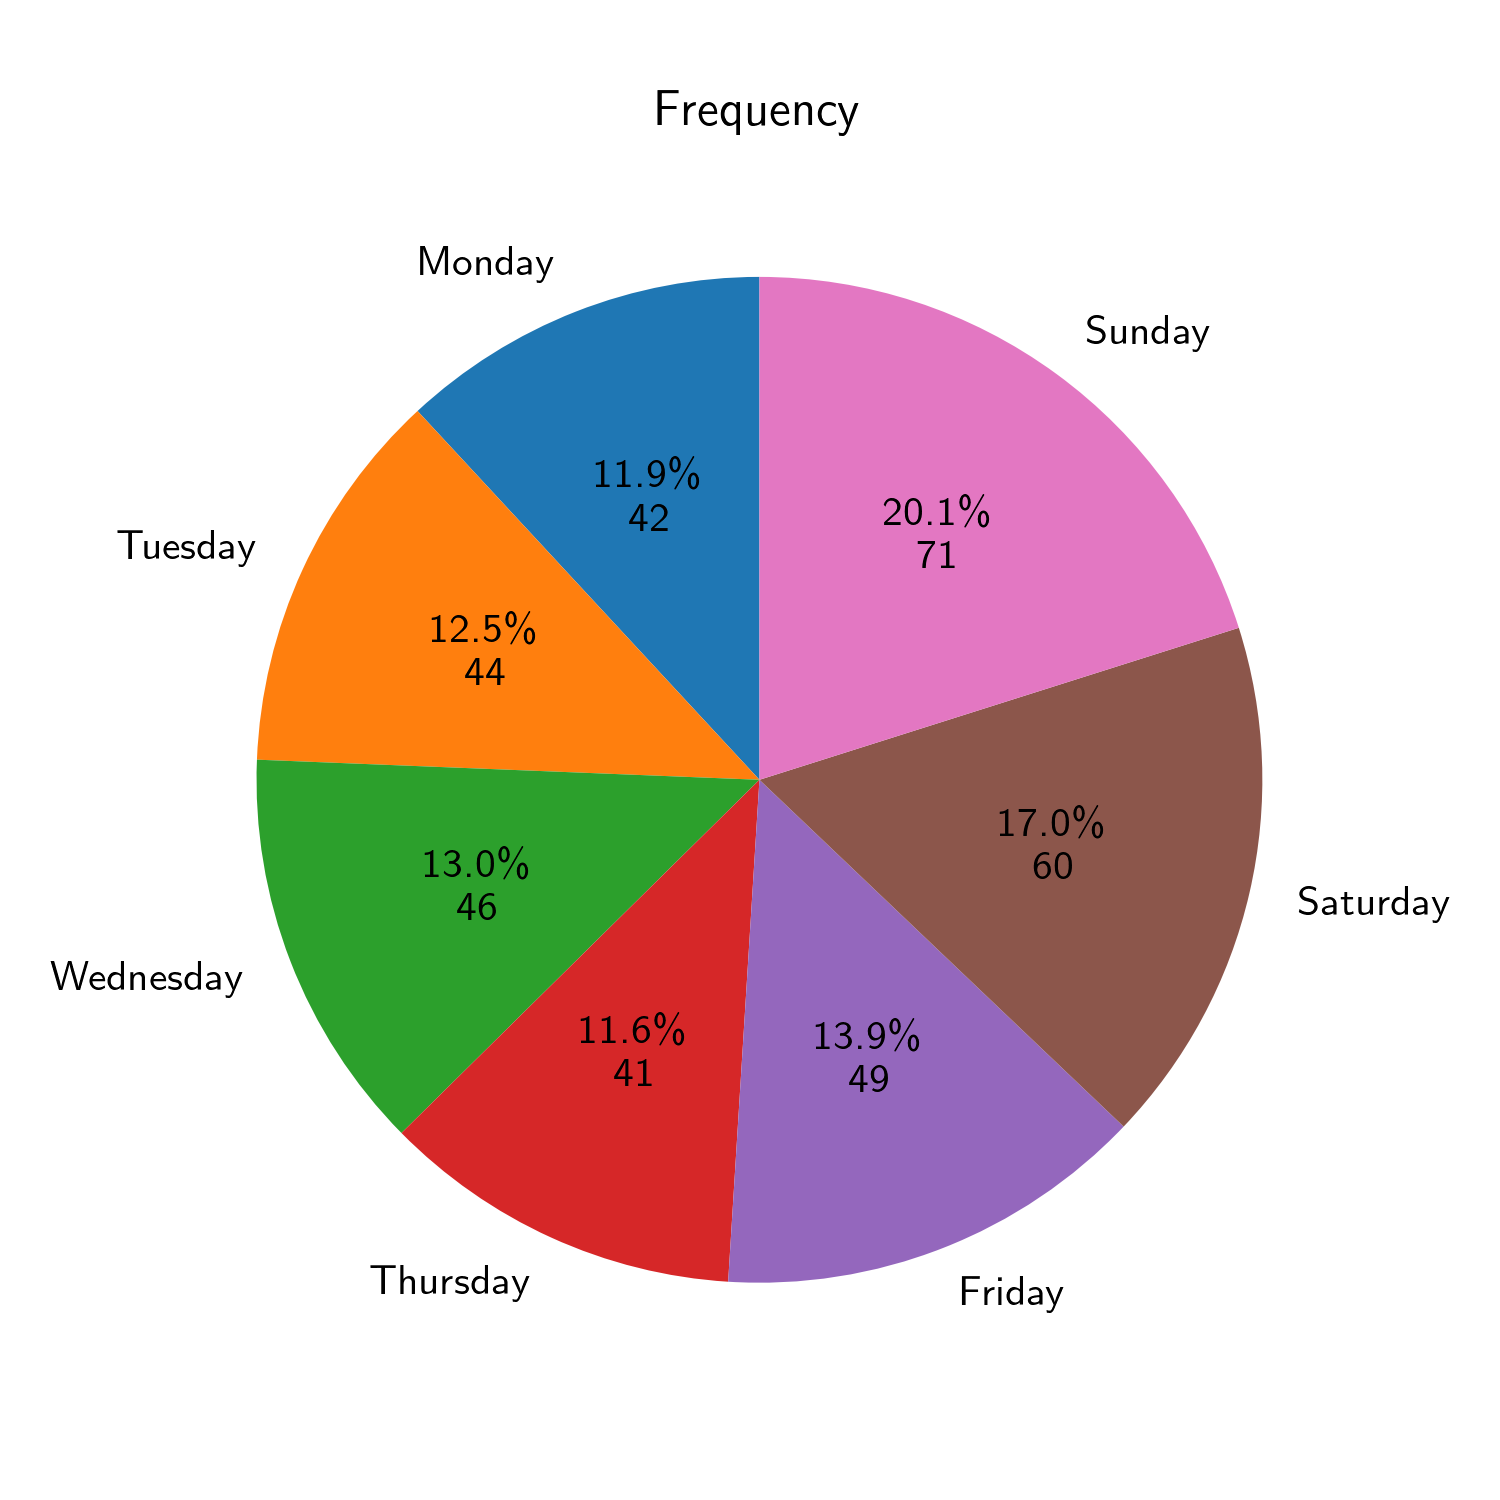
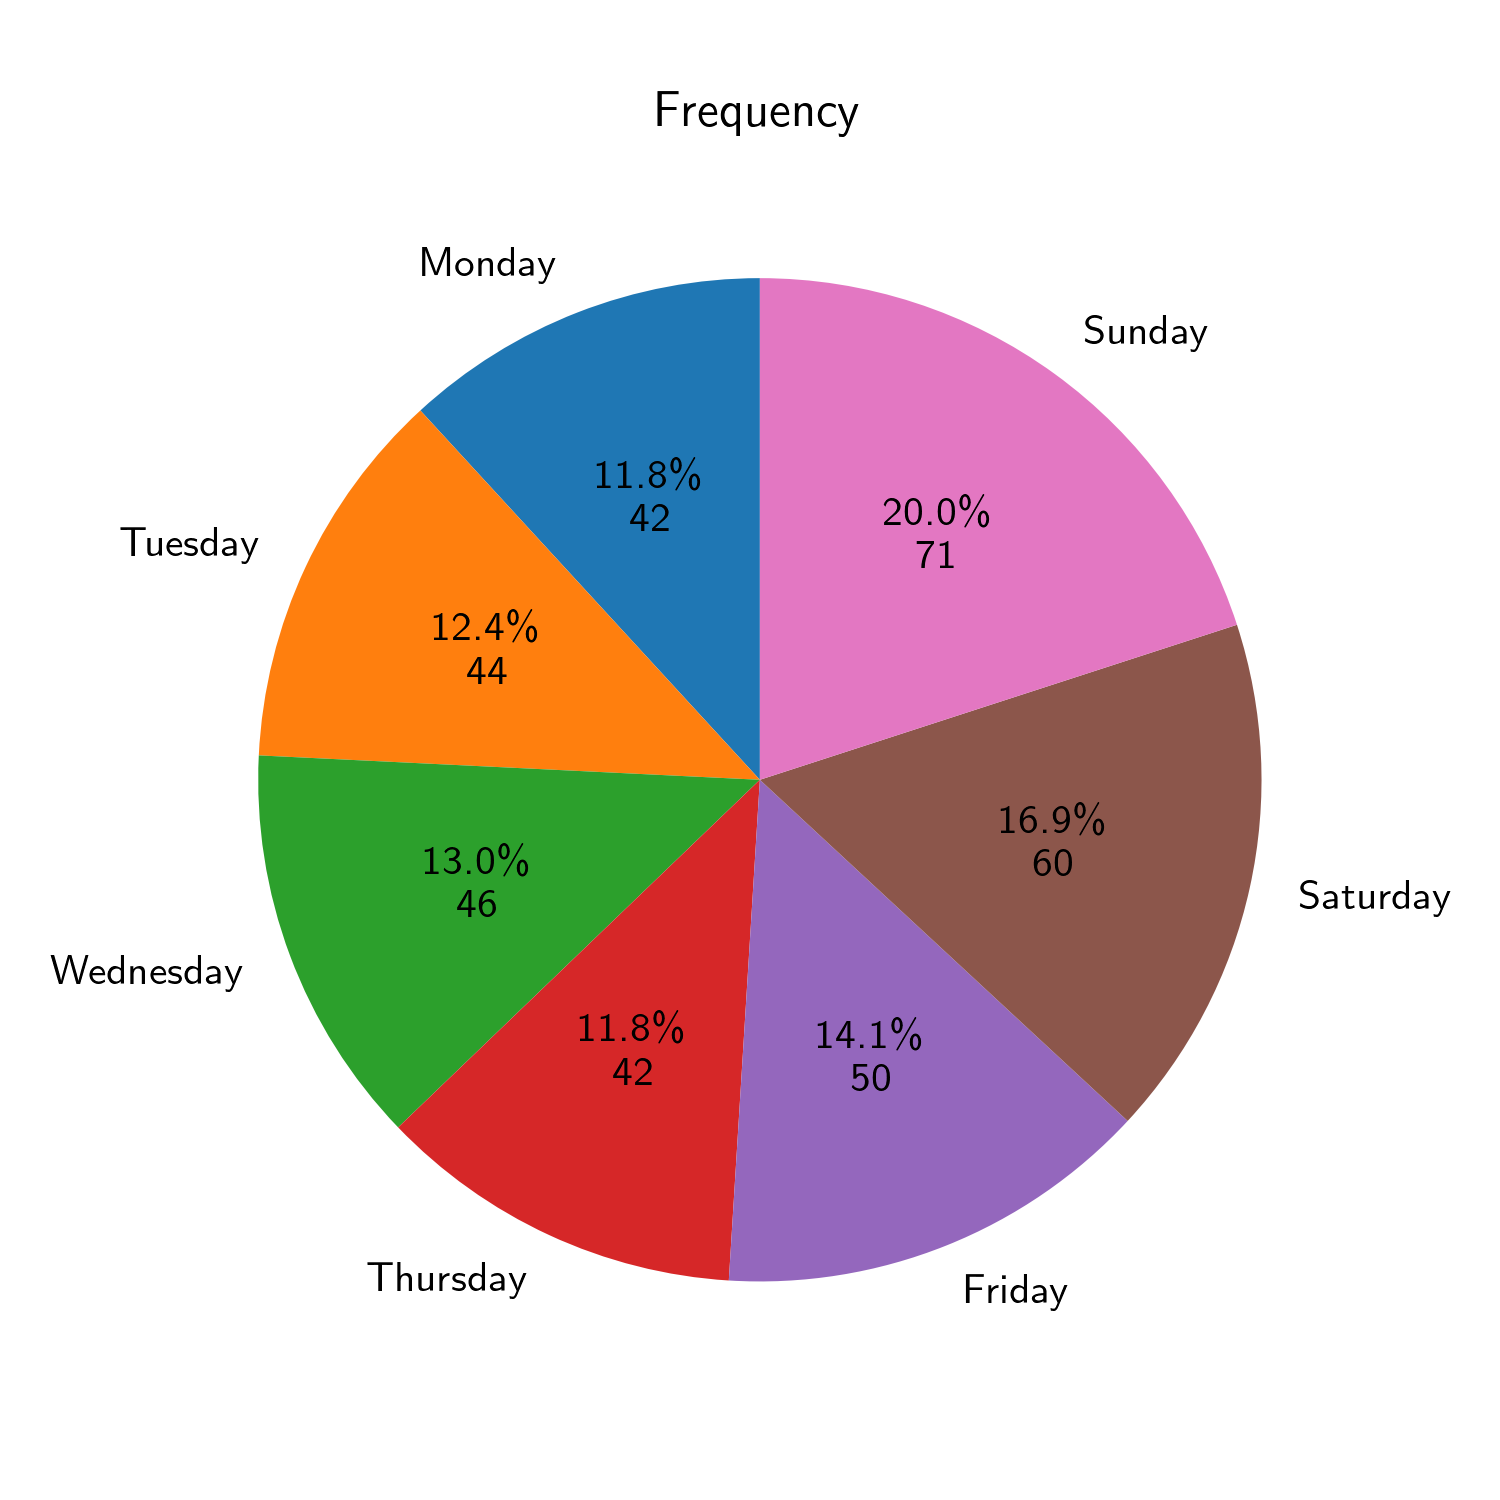
update data

diff --git a/harvest.py b/harvest.py
@@ -52,18 +52,21 @@ def routine():
     elif 'dummy' in value:
         dummy_mode()
 
-    elif is_not_float(value):
+    elif abort(is_not_float(value)):
         print('wrong input')
-        
-    else:
-        normal_mode(value, dt.today())
 
+    elif value == 'exit':
         import statistic
         statistic.statistic()
 
         import ferienfeiertage as ff
         if ff.rewrite():
             git_update('ferienfeiertage')
+
+        sys.exit()
+        
+    else:
+        normal_mode(value, dt.today())
 
 
 

diff --git a/README.md b/README.md
@@ -1,11 +1,11 @@
-last update: 21.09.2024, Saturday, time: 18:13  
+last update: 21.09.2024, Saturday, time: 19:40  
 # Overview  
 || whole | half |  
 |---|---|---|  
-|total $/ \textup{€}$|184.719 $\pm$ 52.494|109.118 $\pm$ 31.413|  
-|ratio $/ \frac{\textup{€}}{\textup{h}}$| 4.413 $\pm$  0.773| 5.136 $\pm$  1.119|  
-|cash $/ \textup{€}$|63.663 $\pm$ 37.579|44.469 $\pm$ 20.527|  
-|card $/ \textup{€}$|88.675 $\pm$ 54.108|57.202 $\pm$ 27.775|  
+|total $/ \textup{€}$|184.414 $\pm$ 52.279|109.118 $\pm$ 31.413|  
+|ratio $/ \frac{\textup{€}}{\textup{h}}$| 4.407 $\pm$  0.771| 5.136 $\pm$  1.119|  
+|cash $/ \textup{€}$|63.605 $\pm$ 37.379|44.469 $\pm$ 20.527|  
+|card $/ \textup{€}$|88.790 $\pm$ 53.824|57.202 $\pm$ 27.775|  
 # Frequency  
     
 ![Image](./png/frequency.png)  
@@ -53,10 +53,10 @@ last update: 21.09.2024, Saturday, time: 18:13
 ||ratio $/ \frac{\textup{€}}{\textup{h}}$|  4.33 $\pm$  0.81|  4.96 $\pm$  1.07|  
 |Wednesday|total $/ \textup{€}$|165.75 $\pm$ 29.98| 93.17 $\pm$ 20.39|  
 ||ratio $/ \frac{\textup{€}}{\textup{h}}$|  4.53 $\pm$  0.76|  5.10 $\pm$  1.05|  
-|Thursday|total $/ \textup{€}$|149.95 $\pm$ 42.11| 88.16 $\pm$ 18.70|  
-||ratio $/ \frac{\textup{€}}{\textup{h}}$|  4.14 $\pm$  0.68|  4.76 $\pm$  0.98|  
-|Friday|total $/ \textup{€}$|192.67 $\pm$ 34.05|104.48 $\pm$ 25.23|  
-||ratio $/ \frac{\textup{€}}{\textup{h}}$|  4.38 $\pm$  0.74|  4.96 $\pm$  1.14|  
+|Thursday|total $/ \textup{€}$|150.14 $\pm$ 41.33| 88.16 $\pm$ 18.70|  
+||ratio $/ \frac{\textup{€}}{\textup{h}}$|  4.13 $\pm$  0.67|  4.76 $\pm$  0.98|  
+|Friday|total $/ \textup{€}$|191.53 $\pm$ 34.00|104.48 $\pm$ 25.23|  
+||ratio $/ \frac{\textup{€}}{\textup{h}}$|  4.37 $\pm$  0.73|  4.96 $\pm$  1.14|  
 |Saturday|total $/ \textup{€}$|221.68 $\pm$ 41.11|116.06 $\pm$ 31.65|  
 ||ratio $/ \frac{\textup{€}}{\textup{h}}$|  4.56 $\pm$  0.66|  4.94 $\pm$  1.08|  
 |Sunday|total $/ \textup{€}$|253.40 $\pm$ 46.26|138.03 $\pm$ 28.18|  
@@ -66,12 +66,12 @@ Special: Holidays and Weekends
 ## Whole day  
 ||total $/ \textup{€}$|ratio $/ \frac{\textup{€}}{\textup{h}}$|count|  
 |---|---|---|---|  
-|All|190.83 $\pm$ 54.76|  4.52 $\pm$  0.80|211  
-|Normal|164.48 $\pm$ 38.69|  4.32 $\pm$  0.77|136  
+|All|190.51 $\pm$ 54.59|  4.51 $\pm$  0.80|213  
+|Normal|164.38 $\pm$ 38.42|  4.31 $\pm$  0.76|138  
 |Weekend|238.60 $\pm$ 46.69|  4.89 $\pm$  0.73|75  
-|Holiday|182.64 $\pm$ 54.61|  4.45 $\pm$  0.83|61  
-|Special|210.87 $\pm$ 58.91|  4.66 $\pm$  0.81|117  
-|Special\&Friday|208.41 $\pm$ 55.75|  4.63 $\pm$  0.80|139  
+|Holiday|182.27 $\pm$ 54.25|  4.44 $\pm$  0.83|62  
+|Special|210.44 $\pm$ 58.85|  4.66 $\pm$  0.81|118  
+|Special\&Friday|208.06 $\pm$ 55.70|  4.63 $\pm$  0.80|140  
     
 ![Image](./png/special_whole.png)  
 ## Half day  
